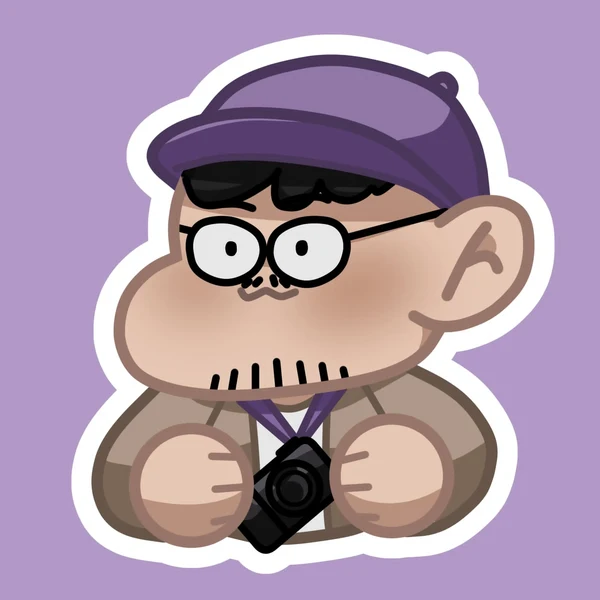
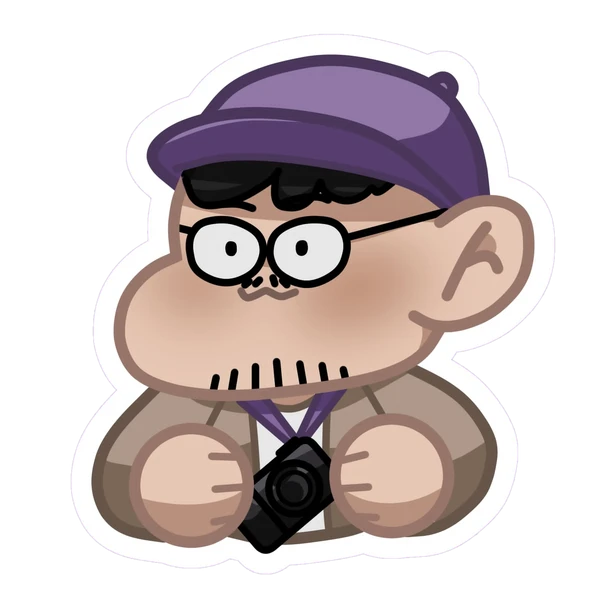
Contact: transparent mascot background
Claude-Session: https://claude.ai/code/session_01Bhe3PGmnQ2ASdoZrWdnT6w

diff --git a/index.html b/index.html
@@ -493,7 +493,7 @@
       <h2 class="font-mono text-3xl font-bold tracking-tight text-ink">yayy mail!</h2>
       <p class="mx-auto mt-3 max-w-sm">wanna chat, collab, or just say hi? the easiest way to reach me is email. i'd love to hear from you :)</p>
 
-      <div class="relative mx-auto" style="width:min(250px,70%);margin-block:14px;border-radius:24px;overflow:hidden">
+      <div class="relative mx-auto" style="width:min(250px,70%);margin-block:10px">
         <img src="assets/contact-guy.webp" loading="lazy" decoding="async" width="600" height="600" alt="" class="block w-full select-none" draggable="false" />
         <svg viewBox="0 0 1500 1500" class="pointer-events-none absolute inset-0 h-full w-full overflow-visible" aria-label="the little guy holding a letter" role="img">
           <g transform="rotate(-6 700 1170)" stroke="#1d1318" stroke-width="14" stroke-linejoin="round" stroke-linecap="round">
